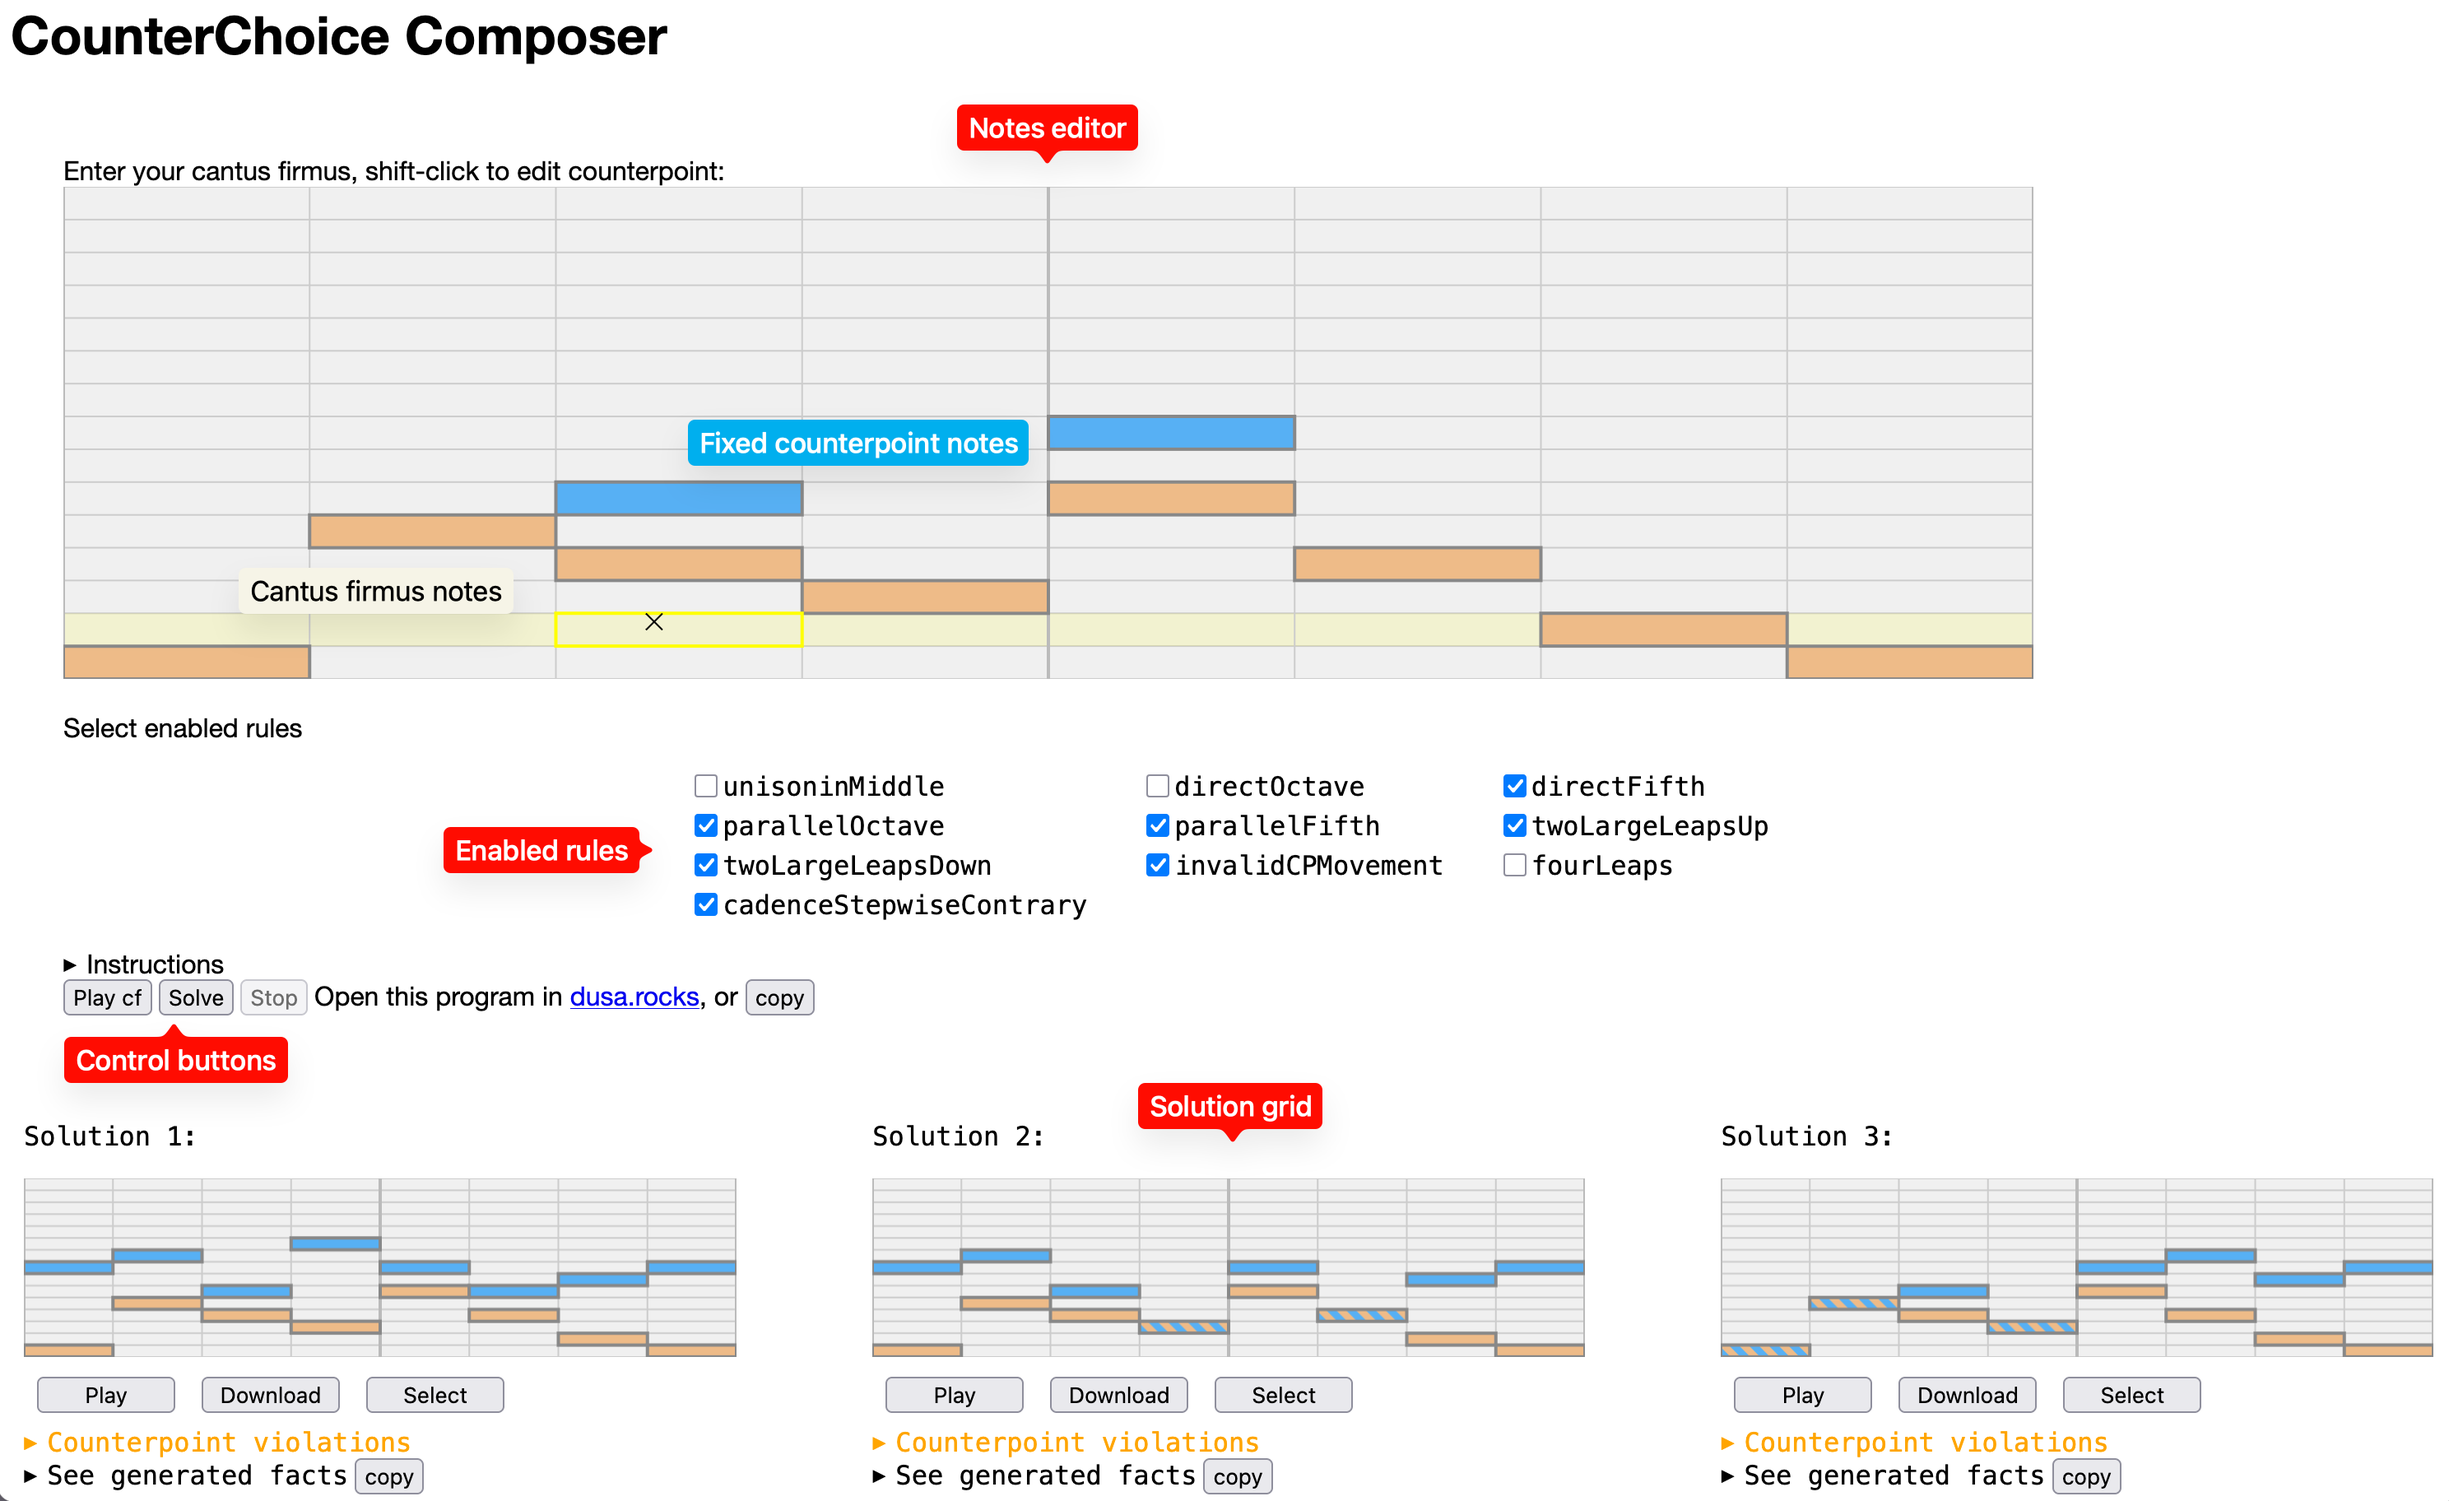
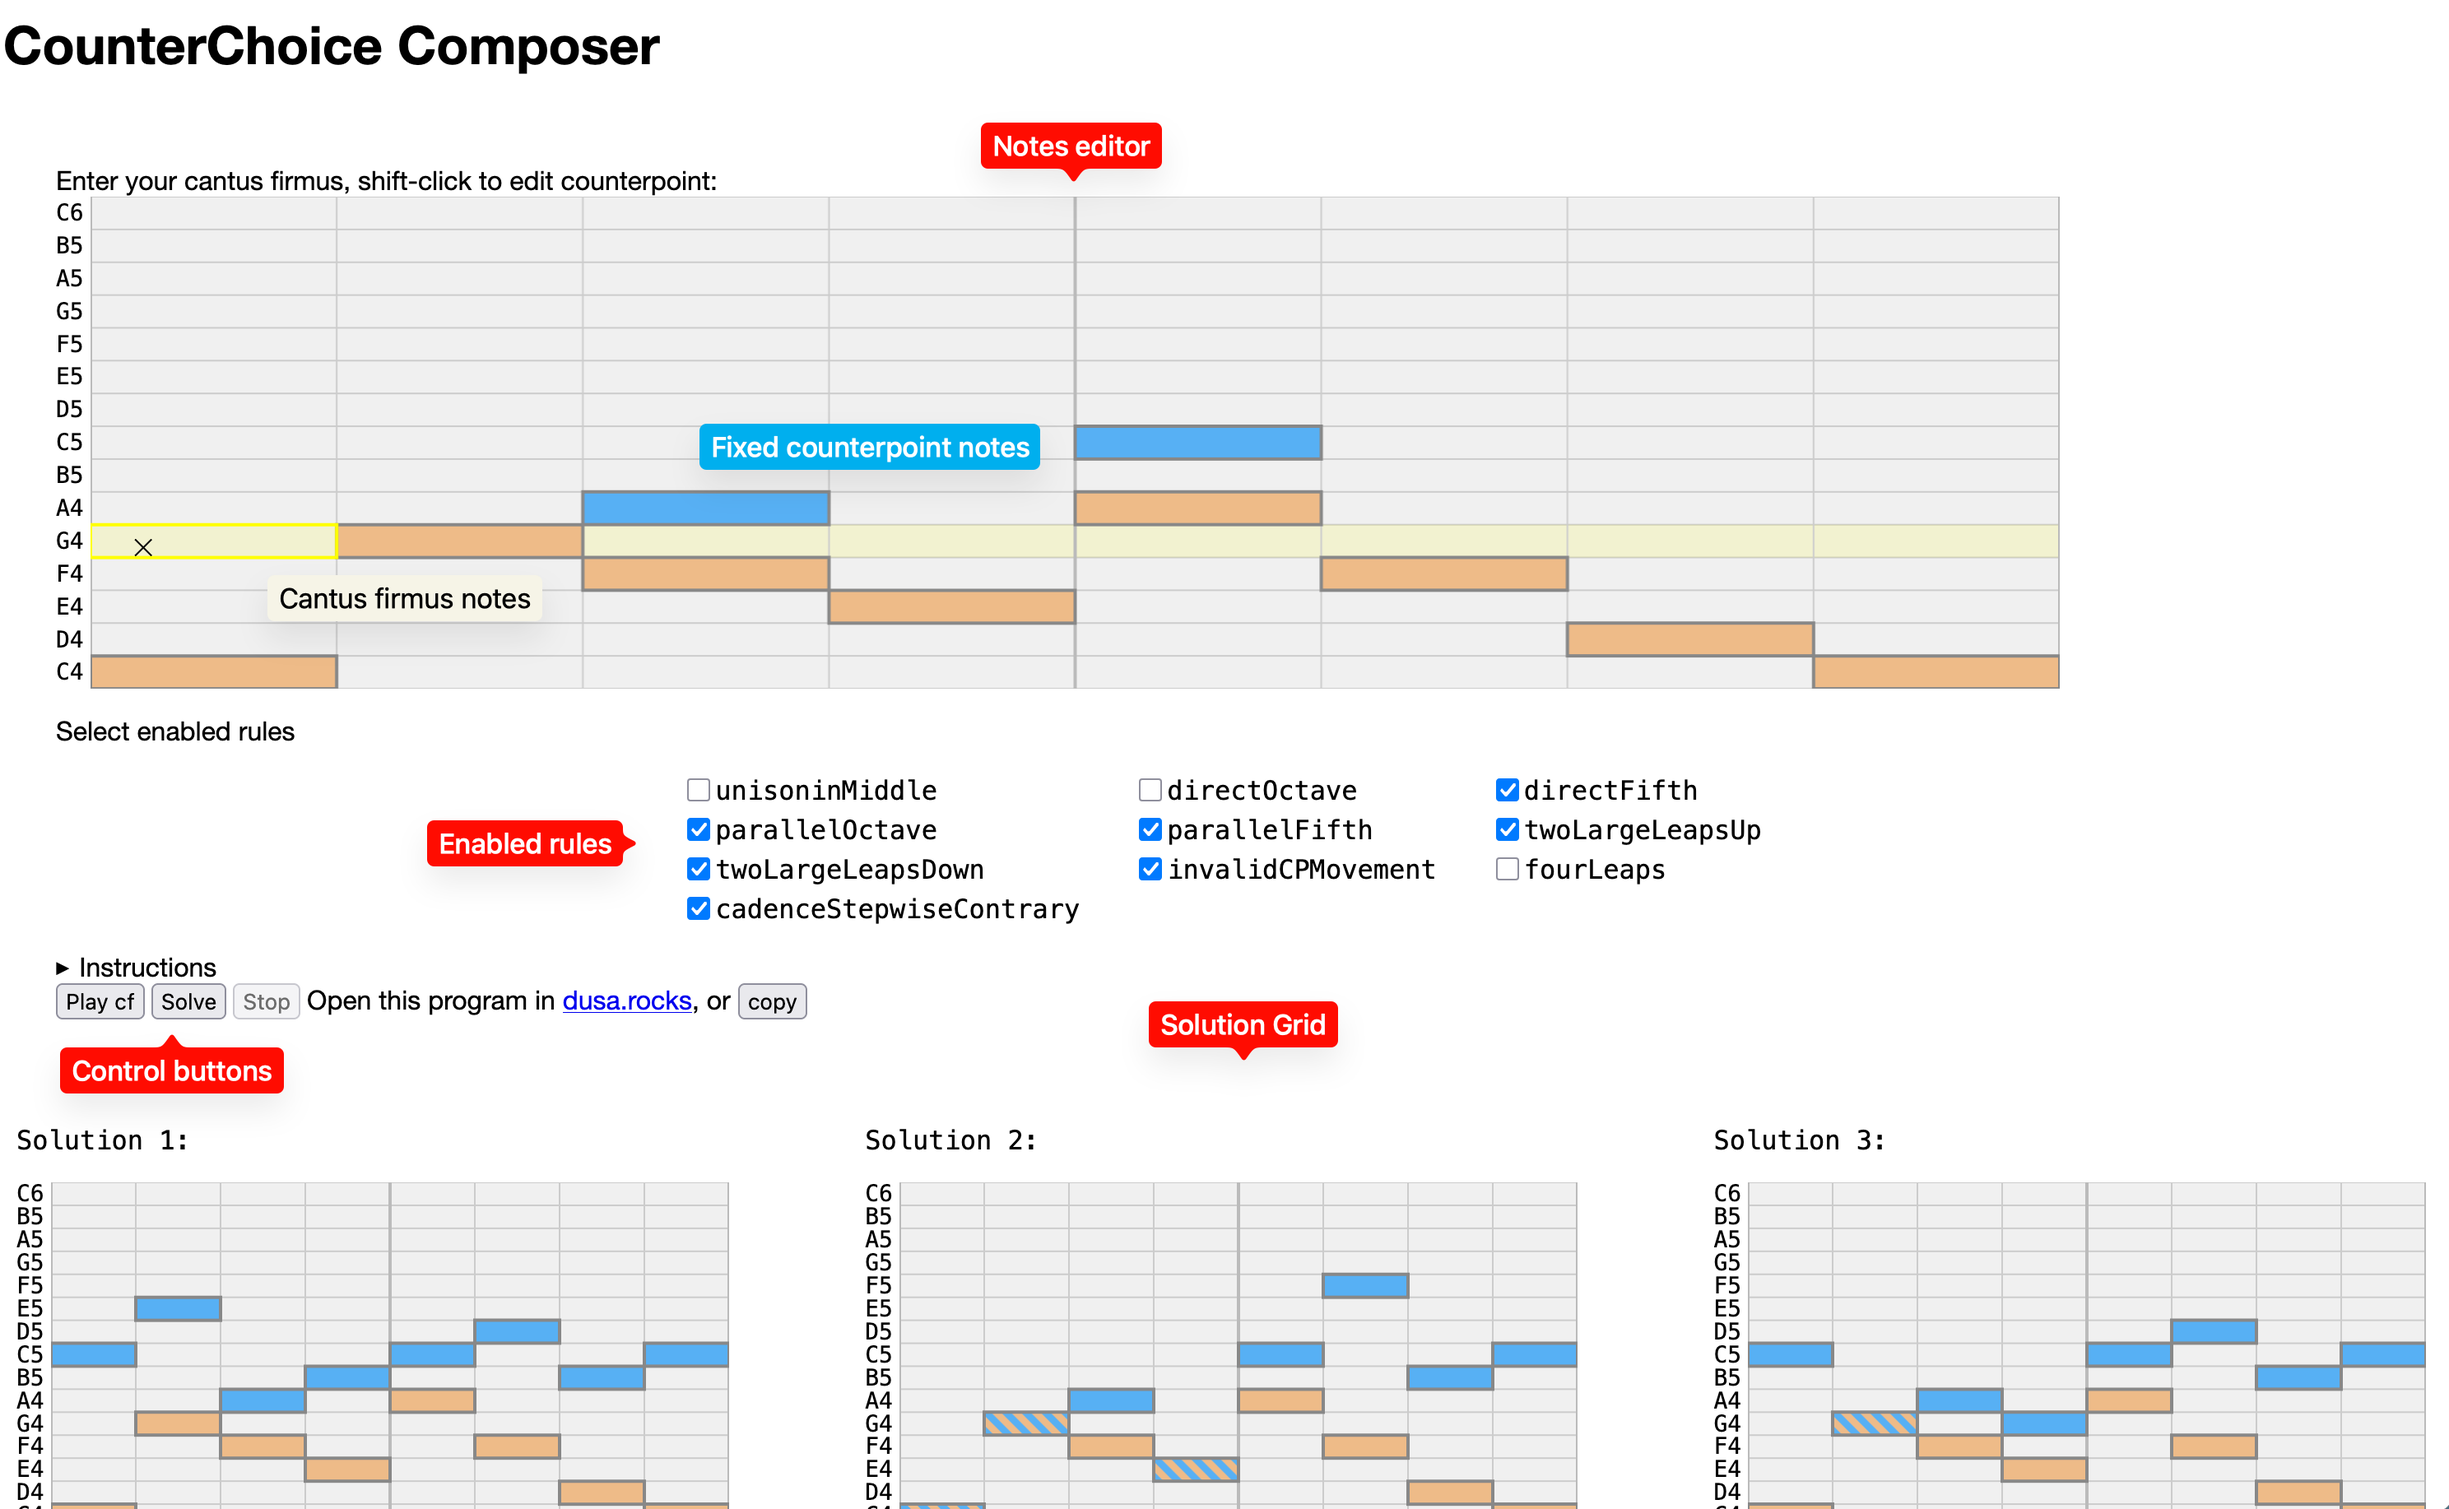
display note labels on rows, update screenshots

diff --git a/web/src/Notes.tsx b/web/src/Notes.tsx
@@ -1,5 +1,6 @@
 import { useEffect, useRef } from "react";
 import { PITCHES, type Note } from "./util";
+import style from "./Notes.module.css";
 
 // stable reference for a "no notes" default prop:
 const EMPTY_NOTES: (Note | null)[] = [];
@@ -464,7 +465,8 @@ function redraw(
 }
 
 export interface NotesProps {
-  className?: string;
+  canvasClassName?: string;
+  containerClassName?: string;
   // null entries are empty steps (no note placed yet).
   cf?: (Note | null)[];
   cp?: (Note | null)[];
@@ -475,7 +477,8 @@ export interface NotesProps {
 }
 
 export default function Notes({
-  className,
+  canvasClassName,
+  containerClassName,
   cf = EMPTY_NOTES,
   cp = EMPTY_NOTES,
   editable,
@@ -654,5 +657,26 @@ export default function Notes({
     };
   }, [editable, onCfChange, onCpChange]);
 
-  return <canvas ref={canvasRef} className={className} />;
+  return (
+    <div className={`${style.notesRoot} ${containerClassName ?? ""}`}>
+      <ol className={style.notesLabels}>
+        <li>C4</li>
+        <li>D4</li>
+        <li>E4</li>
+        <li>F4</li>
+        <li>G4</li>
+        <li>A4</li>
+        <li>B5</li>
+        <li>C5</li>
+        <li>D5</li>
+        <li>E5</li>
+        <li>F5</li>
+        <li>G5</li>
+        <li>A5</li>
+        <li>B5</li>
+        <li>C6</li>
+      </ol>
+      <canvas ref={canvasRef} className={canvasClassName} />
+    </div>
+  );
 }

diff --git a/web/src/Notes.module.css b/web/src/Notes.module.css
@@ -1,0 +1,24 @@
+.notesRoot {
+  display: flex;
+}
+
+.notesLabels {
+  display: flex;
+  flex-direction: column-reverse;
+  margin: 0;
+  margin-right: 0.25rem;
+  padding: 0;
+  list-style: none;
+}
+
+.notesLabels > li {
+  flex: 1 1 0;
+  display: flex;
+  align-items: center;
+  justify-content: flex-end;
+  /* canvas height is min(20vw, 60vh) (width = min(80vw, 60vh*4), 4:1 aspect),
+     so one row band is that / 14. Take ~70% of a band for spacing. */
+  font-size: calc(min(20vw, 60vh) / 15 * 0.7);
+  line-height: 1;
+  font-family: monospace;
+}

diff --git a/web/src/Solution.tsx b/web/src/Solution.tsx
@@ -43,7 +43,7 @@ export default function Solution({
         <p>
           Solution <span className={style.id}>{id}:</span>
         </p>
-        <Notes cf={cf} cp={cp} className={style.notes} />
+        <Notes cf={cf} cp={cp} canvasClassName={style.notes} />
       </div>
       <button
         type="button"

diff --git a/web/src/App.tsx b/web/src/App.tsx
@@ -99,7 +99,7 @@ export default function App() {
           Enter your cantus firmus, shift-click to edit counterpoint:
         </label>
         <Notes
-          className={style.mainNotes}
+          canvasClassName={style.mainNotes}
           cf={cf}
           cp={frozenCp}
           editable

diff --git a/web/src/App.module.css b/web/src/App.module.css
@@ -31,7 +31,6 @@
   width: calc(min(80vw, 60vh * 4));
   height: auto;
   aspect-ratio: 4 / 1;
-  margin: 0 auto;
 }
 
 .ruleCheckbox {
